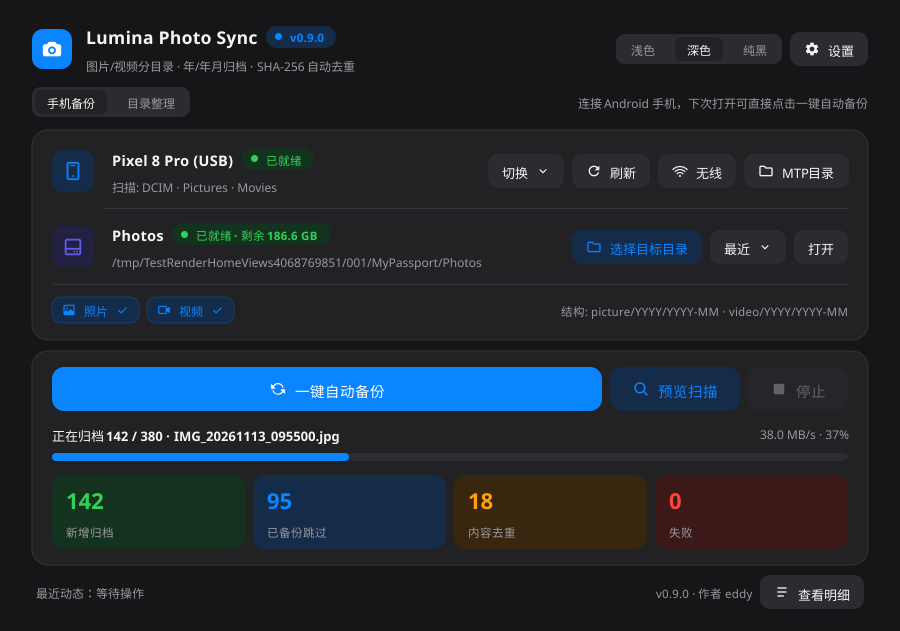
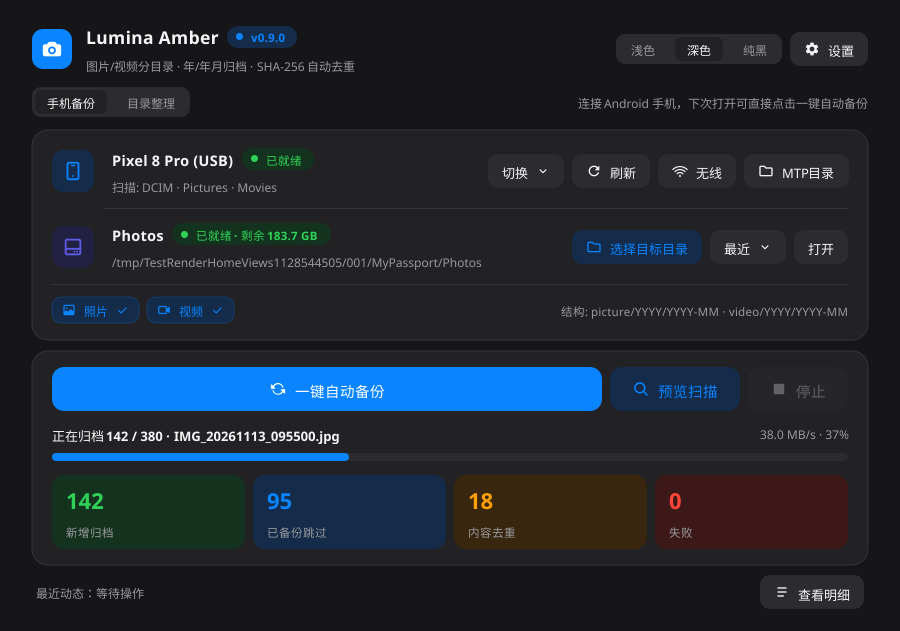
refactor: rebrand application to Lumina Amber and move author to About

Changed region(s): [[0.1867, 0.0301, 0.3733, 0.0903], [0.7467, 0.9334, 0.84, 0.9635], [0.3111, 0.3613, 0.3733, 0.4216]]

diff --git a/internal/ui/app.go b/internal/ui/app.go
@@ -14,15 +14,15 @@ import (
 	"fyne.io/fyne/v2/app"
 	"fyne.io/fyne/v2/dialog"
 
-	"lumina-photo-sync/internal/db"
-	"lumina-photo-sync/internal/model"
-	"lumina-photo-sync/internal/source"
-	syncengine "lumina-photo-sync/internal/sync"
-	"lumina-photo-sync/internal/version"
+	"lumina-amber/internal/db"
+	"lumina-amber/internal/model"
+	"lumina-amber/internal/source"
+	syncengine "lumina-amber/internal/sync"
+	"lumina-amber/internal/version"
 )
 
-// PhotoSyncApp coordinates application state, persistence, device discovery, and UI rendering.
-type PhotoSyncApp struct {
+// AmberApp coordinates application state, persistence, device discovery, and UI rendering.
+type AmberApp struct {
 	FyneApp fyne.App
 	Window  fyne.Window
 	DB      *db.Database
@@ -42,7 +42,7 @@ type PhotoSyncApp struct {
 	home *homeView
 }
 
-func (a *PhotoSyncApp) configSnapshot() model.AppConfig {
+func (a *AmberApp) configSnapshot() model.AppConfig {
 	a.mu.Lock()
 	cfg := a.Config
 	cfg.SourceDirs = append([]string(nil), a.Config.SourceDirs...)
@@ -51,8 +51,8 @@ func (a *PhotoSyncApp) configSnapshot() model.AppConfig {
 	return cfg
 }
 
-// NewPhotoSyncApp initializes the database, loads saved defaults, and builds the main window.
-func NewPhotoSyncApp(dbPath string) (*PhotoSyncApp, error) {
+// NewAmberApp initializes the database, loads saved defaults, and builds the main window.
+func NewAmberApp(dbPath string) (*AmberApp, error) {
 	database, err := db.Open(dbPath)
 	if err != nil {
 		return nil, fmt.Errorf("open database: %w", err)
@@ -64,7 +64,7 @@ func NewPhotoSyncApp(dbPath string) (*PhotoSyncApp, error) {
 		return nil, fmt.Errorf("load config: %w", err)
 	}
 
-	a := app.NewWithID("org.lumina.photosync")
+	a := app.NewWithID("org.lumina.amber")
 	luminaTheme := NewLuminaTheme(ThemeMode(cfg.ThemeMode))
 	a.Settings().SetTheme(luminaTheme)
 
@@ -72,7 +72,7 @@ func NewPhotoSyncApp(dbPath string) (*PhotoSyncApp, error) {
 	w.Resize(fyne.NewSize(900, 620))
 	w.CenterOnScreen()
 
-	psa := &PhotoSyncApp{
+	psa := &AmberApp{
 		FyneApp: a,
 		Window:  w,
 		DB:      database,
@@ -85,7 +85,7 @@ func NewPhotoSyncApp(dbPath string) (*PhotoSyncApp, error) {
 }
 
 // Run builds the UI, starts background device discovery, and enters the Fyne event loop.
-func (a *PhotoSyncApp) Run() {
+func (a *AmberApp) Run() {
 	a.home = newHomeView(a)
 	a.Window.SetContent(a.home.root)
 
@@ -110,7 +110,7 @@ func (a *PhotoSyncApp) Run() {
 	a.Window.ShowAndRun()
 }
 
-func (a *PhotoSyncApp) watchDevicesLoop(ctx context.Context) {
+func (a *AmberApp) watchDevicesLoop(ctx context.Context) {
 	ticker := time.NewTicker(3 * time.Second)
 	defer ticker.Stop()
 
@@ -129,7 +129,7 @@ func (a *PhotoSyncApp) watchDevicesLoop(ctx context.Context) {
 	}
 }
 
-func (a *PhotoSyncApp) setThemeMode(mode ThemeMode) {
+func (a *AmberApp) setThemeMode(mode ThemeMode) {
 	a.mu.Lock()
 	a.Config.ThemeMode = string(mode)
 	a.mu.Unlock()
@@ -141,7 +141,7 @@ func (a *PhotoSyncApp) setThemeMode(mode ThemeMode) {
 	}
 }
 
-func (a *PhotoSyncApp) setWorkMode(mode string) {
+func (a *AmberApp) setWorkMode(mode string) {
 	if mode != model.WorkModeOrganize {
 		mode = model.WorkModePhone
 	}
@@ -154,7 +154,7 @@ func (a *PhotoSyncApp) setWorkMode(mode string) {
 	}
 }
 
-func (a *PhotoSyncApp) saveConfig() {
+func (a *AmberApp) saveConfig() {
 	if err := a.DB.SaveConfig(a.configSnapshot()); err != nil {
 		fyne.Do(func() {
 			dialog.ShowError(err, a.Window)
@@ -162,7 +162,7 @@ func (a *PhotoSyncApp) saveConfig() {
 	}
 }
 
-func (a *PhotoSyncApp) selectSource(desc source.SourceDescriptor) {
+func (a *AmberApp) selectSource(desc source.SourceDescriptor) {
 	a.mu.Lock()
 	cp := desc
 	a.selectedSource = &cp
@@ -177,7 +177,7 @@ func (a *PhotoSyncApp) selectSource(desc source.SourceDescriptor) {
 	}
 }
 
-func (a *PhotoSyncApp) refreshDevicesAsync(silent bool) {
+func (a *AmberApp) refreshDevicesAsync(silent bool) {
 	if !a.refreshing.CompareAndSwap(false, true) {
 		return
 	}
@@ -272,7 +272,7 @@ func (a *PhotoSyncApp) refreshDevicesAsync(silent bool) {
 	}()
 }
 
-func (a *PhotoSyncApp) buildActiveMediaSource() (source.MediaSource, error) {
+func (a *AmberApp) buildActiveMediaSource() (source.MediaSource, error) {
 	if a.Config.WorkMode == model.WorkModeOrganize {
 		desc := source.NewOrganizeFolderDescriptor(a.Config.OrganizeSourceDir)
 		if desc.State != source.StateReady {
@@ -299,7 +299,7 @@ func (a *PhotoSyncApp) buildActiveMediaSource() (source.MediaSource, error) {
 	return source.NewMountedSource(*sel), nil
 }
 
-func (a *PhotoSyncApp) startSync(dryRun bool) {
+func (a *AmberApp) startSync(dryRun bool) {
 	a.mu.Lock()
 	if a.isSyncing {
 		a.mu.Unlock()
@@ -387,7 +387,7 @@ func (a *PhotoSyncApp) startSync(dryRun bool) {
 	}()
 }
 
-func (a *PhotoSyncApp) cancelActiveSync() {
+func (a *AmberApp) cancelActiveSync() {
 	a.mu.Lock()
 	cancel := a.cancelSync
 	a.mu.Unlock()

diff --git a/internal/ui/view_home.go b/internal/ui/view_home.go
@@ -13,14 +13,14 @@ import (
 	"fyne.io/fyne/v2/layout"
 	"fyne.io/fyne/v2/widget"
 
-	"lumina-photo-sync/internal/model"
-	"lumina-photo-sync/internal/source"
-	"lumina-photo-sync/internal/sync"
-	"lumina-photo-sync/internal/version"
+	"lumina-amber/internal/model"
+	"lumina-amber/internal/source"
+	"lumina-amber/internal/sync"
+	"lumina-amber/internal/version"
 )
 
 type homeView struct {
-	app  *PhotoSyncApp
+	app  *AmberApp
 	root fyne.CanvasObject
 
 	// Theme-aware custom elements
@@ -88,12 +88,11 @@ type homeView struct {
 	// Bottom log strip
 	footerRow   *fyne.Container
 	lastLogText *StyledText
-	authorText  *StyledText
 	btnShowLogs *PillButton
 	logLines    []string
 }
 
-func newHomeView(app *PhotoSyncApp) *homeView {
+func newHomeView(app *AmberApp) *homeView {
 	h := &homeView{app: app}
 	h.build()
 	return h
@@ -385,14 +384,13 @@ func (h *homeView) build() {
 
 	// 4. Minimalist Bottom Status Strip (Log modal on demand)
 	h.lastLogText = newStyledText("最近动态：等待操作", t.MutedTextColor(), 12, false)
-	h.authorText = newStyledText(fmt.Sprintf("v%s · 作者 %s", version.Version, version.Author), t.MutedTextColor(), 11.5, false)
 	h.btnShowLogs = newPillButton(t, "查看明细", resIconLog, PillSecondary, func() {
 		h.showLogsModal()
 	})
 	h.footerRow = container.NewBorder(
 		nil, nil,
 		container.NewCenter(h.lastLogText),
-		container.NewHBox(container.NewCenter(h.authorText), h.btnShowLogs),
+		h.btnShowLogs,
 	)
 
 	// Register theme-aware elements
@@ -537,7 +535,6 @@ func (h *homeView) applyTheme(t *LuminaTheme) {
 	h.titleText.SetColor(t.PrimaryTextColor())
 	h.versionPill.Set("v"+version.Version, t.AccentTintColor(), t.AccentColor())
 	h.subText.SetColor(t.MutedTextColor())
-	h.authorText.SetColor(t.MutedTextColor())
 	h.modeHint.SetColor(t.MutedTextColor())
 	h.ruleText.SetColor(t.MutedTextColor())
 	h.sourceNameText.SetColor(t.PrimaryTextColor())

diff --git a/cmd/lumina-amber/main.go b/cmd/lumina-amber/main.go
@@ -6,14 +6,14 @@ import (
 	"os"
 	"path/filepath"
 
-	"lumina-photo-sync/internal/ui"
-	"lumina-photo-sync/internal/version"
+	"lumina-amber/internal/ui"
+	"lumina-amber/internal/version"
 )
 
 func main() {
 	var dbPathFlag string
 	var showVersion bool
-	flag.StringVar(&dbPathFlag, "db", "", "Path to the lumina_sync.db database file")
+	flag.StringVar(&dbPathFlag, "db", "", "Path to the lumina_amber.db database file")
 	flag.BoolVar(&showVersion, "version", false, "Print version information and exit")
 	flag.Parse()
 
@@ -29,12 +29,12 @@ func main() {
 			homeDir, _ := os.UserHomeDir()
 			cfgDir = filepath.Join(homeDir, ".config")
 		}
-		dbPath = filepath.Join(cfgDir, "lumina-photo-sync", "lumina_sync.db")
+		dbPath = filepath.Join(cfgDir, "lumina-amber", "lumina_amber.db")
 	}
 
-	app, err := ui.NewPhotoSyncApp(dbPath)
+	app, err := ui.NewAmberApp(dbPath)
 	if err != nil {
-		fmt.Fprintf(os.Stderr, "Fatal error initializing Lumina Photo Sync: %v\n", err)
+		fmt.Fprintf(os.Stderr, "Fatal error initializing %s: %v\n", version.AppName, err)
 		os.Exit(1)
 	}
 

diff --git a/internal/ui/render_test.go b/internal/ui/render_test.go
@@ -10,10 +10,10 @@ import (
 	"fyne.io/fyne/v2"
 	"fyne.io/fyne/v2/test"
 
-	"lumina-photo-sync/internal/db"
-	"lumina-photo-sync/internal/model"
-	"lumina-photo-sync/internal/source"
-	syncengine "lumina-photo-sync/internal/sync"
+	"lumina-amber/internal/db"
+	"lumina-amber/internal/model"
+	"lumina-amber/internal/source"
+	syncengine "lumina-amber/internal/sync"
 )
 
 func TestRenderHomeViews(t *testing.T) {
@@ -30,7 +30,7 @@ func TestRenderHomeViews(t *testing.T) {
 	testApp := test.NewApp()
 	defer testApp.Quit()
 
-	win := testApp.NewWindow("Lumina Photo Sync")
+	win := testApp.NewWindow("Lumina Amber")
 	win.Resize(fyne.NewSize(900, 620))
 
 	orgDir := filepath.Join(tmp, "UnsortedPhotos")
@@ -41,7 +41,7 @@ func TestRenderHomeViews(t *testing.T) {
 	cfg.OrganizeSourceDir = orgDir
 	cfg.AddRecentTarget(targetDir)
 
-	psa := &PhotoSyncApp{
+	psa := &AmberApp{
 		FyneApp: testApp,
 		Window:  win,
 		DB:      database,

diff --git a/internal/ui/view_settings.go b/internal/ui/view_settings.go
@@ -11,12 +11,12 @@ import (
 	"fyne.io/fyne/v2/dialog"
 	"fyne.io/fyne/v2/widget"
 
-	"lumina-photo-sync/internal/meta"
-	"lumina-photo-sync/internal/source"
-	"lumina-photo-sync/internal/version"
+	"lumina-amber/internal/meta"
+	"lumina-amber/internal/source"
+	"lumina-amber/internal/version"
 )
 
-func (a *PhotoSyncApp) showWirelessADBDialog() {
+func (a *AmberApp) showWirelessADBDialog() {
 	addrEntry := widget.NewEntry()
 	addrEntry.SetPlaceHolder("例如 192.168.1.50:5555")
 
@@ -68,7 +68,7 @@ func formatTargetMetaSummary(targetDir string) string {
 	)
 }
 
-func (a *PhotoSyncApp) showSettingsDialog() {
+func (a *AmberApp) showSettingsDialog() {
 	dirsEntry := widget.NewMultiLineEntry()
 	dirsEntry.SetText(strings.Join(a.Config.SourceDirs, "\n"))
 	dirsEntry.SetMinRowsVisible(4)

diff --git a/internal/sync/engine.go b/internal/sync/engine.go
@@ -16,10 +16,10 @@ import (
 	"sync/atomic"
 	"time"
 
-	"lumina-photo-sync/internal/meta"
-	"lumina-photo-sync/internal/model"
-	"lumina-photo-sync/internal/organizer"
-	"lumina-photo-sync/internal/source"
+	"lumina-amber/internal/meta"
+	"lumina-amber/internal/model"
+	"lumina-amber/internal/organizer"
+	"lumina-amber/internal/source"
 )
 
 const (

diff --git a/internal/sync/engine_test.go b/internal/sync/engine_test.go
@@ -8,9 +8,9 @@ import (
 	"testing"
 	"time"
 
-	"lumina-photo-sync/internal/meta"
-	"lumina-photo-sync/internal/model"
-	"lumina-photo-sync/internal/source"
+	"lumina-amber/internal/meta"
+	"lumina-amber/internal/model"
+	"lumina-amber/internal/source"
 )
 
 type mockSource struct {

diff --git a/internal/source/mounted.go b/internal/source/mounted.go
@@ -11,7 +11,7 @@ import (
 	"runtime"
 	"strings"
 
-	"lumina-photo-sync/internal/model"
+	"lumina-amber/internal/model"
 )
 
 // DiscoverMountedSources detects Linux GVFS MTP mounts (and optional camera/SD mounts).

diff --git a/internal/version/version.go b/internal/version/version.go
@@ -2,7 +2,7 @@ package version
 
 // Application identity constants. Overridable via -ldflags if desired.
 var (
-	AppName = "Lumina Photo Sync"
+	AppName = "Lumina Amber"
 	Version = "0.9.0"
 	Author  = "eddy"
 )

diff --git a/internal/source/source.go b/internal/source/source.go
@@ -5,7 +5,7 @@ import (
 	"path/filepath"
 	"strings"
 
-	"lumina-photo-sync/internal/model"
+	"lumina-amber/internal/model"
 )
 
 // SourceState describes the readiness of a discovered device or volume.

diff --git a/internal/source/adb.go b/internal/source/adb.go
@@ -13,7 +13,7 @@ import (
 	"strings"
 	"time"
 
-	"lumina-photo-sync/internal/model"
+	"lumina-amber/internal/model"
 )
 
 // ADBDevice represents a single device entry returned by `adb devices -l`.

diff --git a/internal/db/db_test.go b/internal/db/db_test.go
@@ -4,7 +4,7 @@ import (
 	"path/filepath"
 	"testing"
 
-	"lumina-photo-sync/internal/model"
+	"lumina-amber/internal/model"
 )
 
 func TestConfigPersistenceAndNoHashTables(t *testing.T) {
